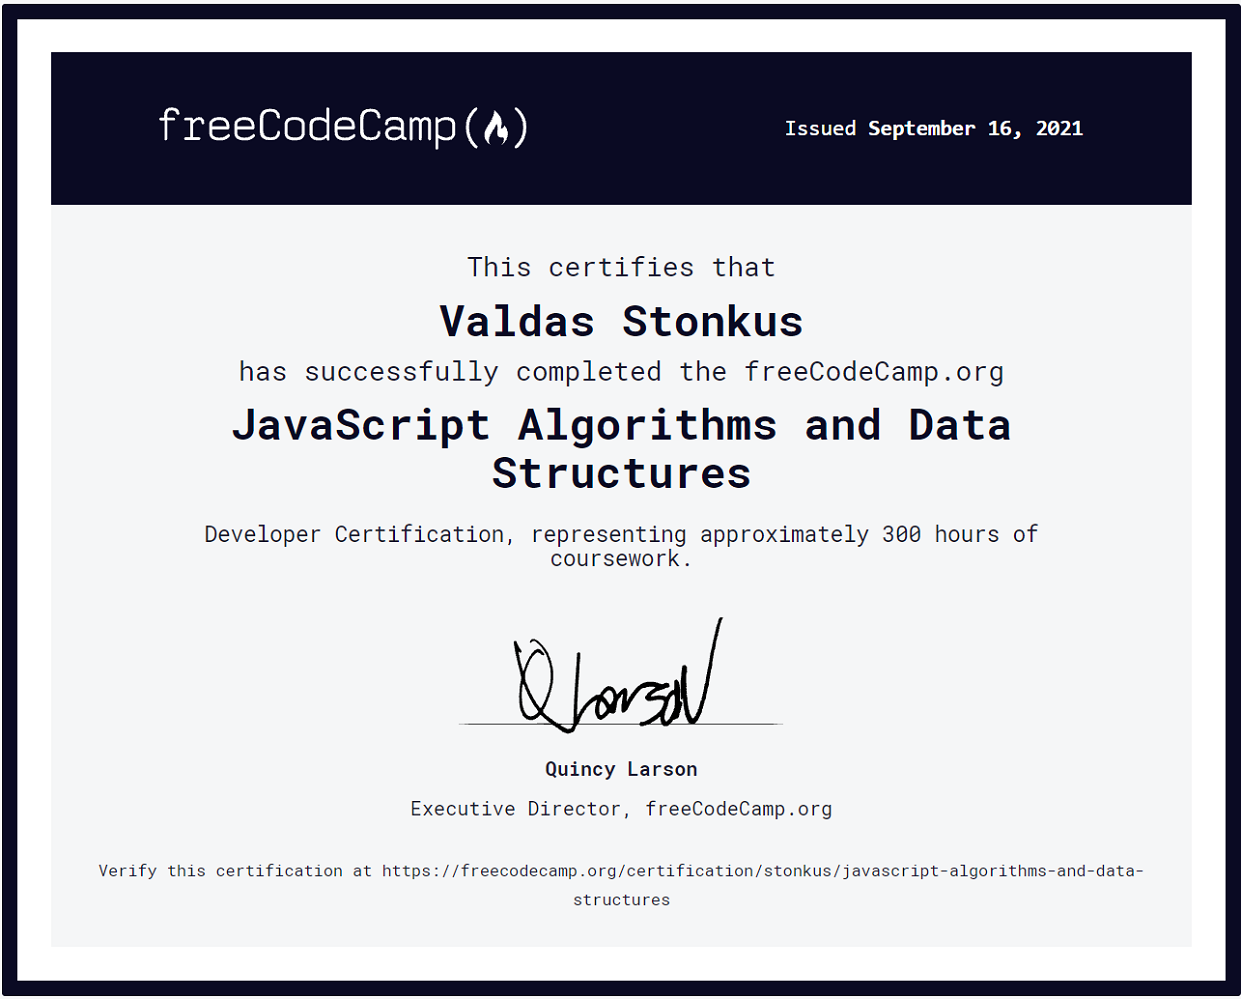
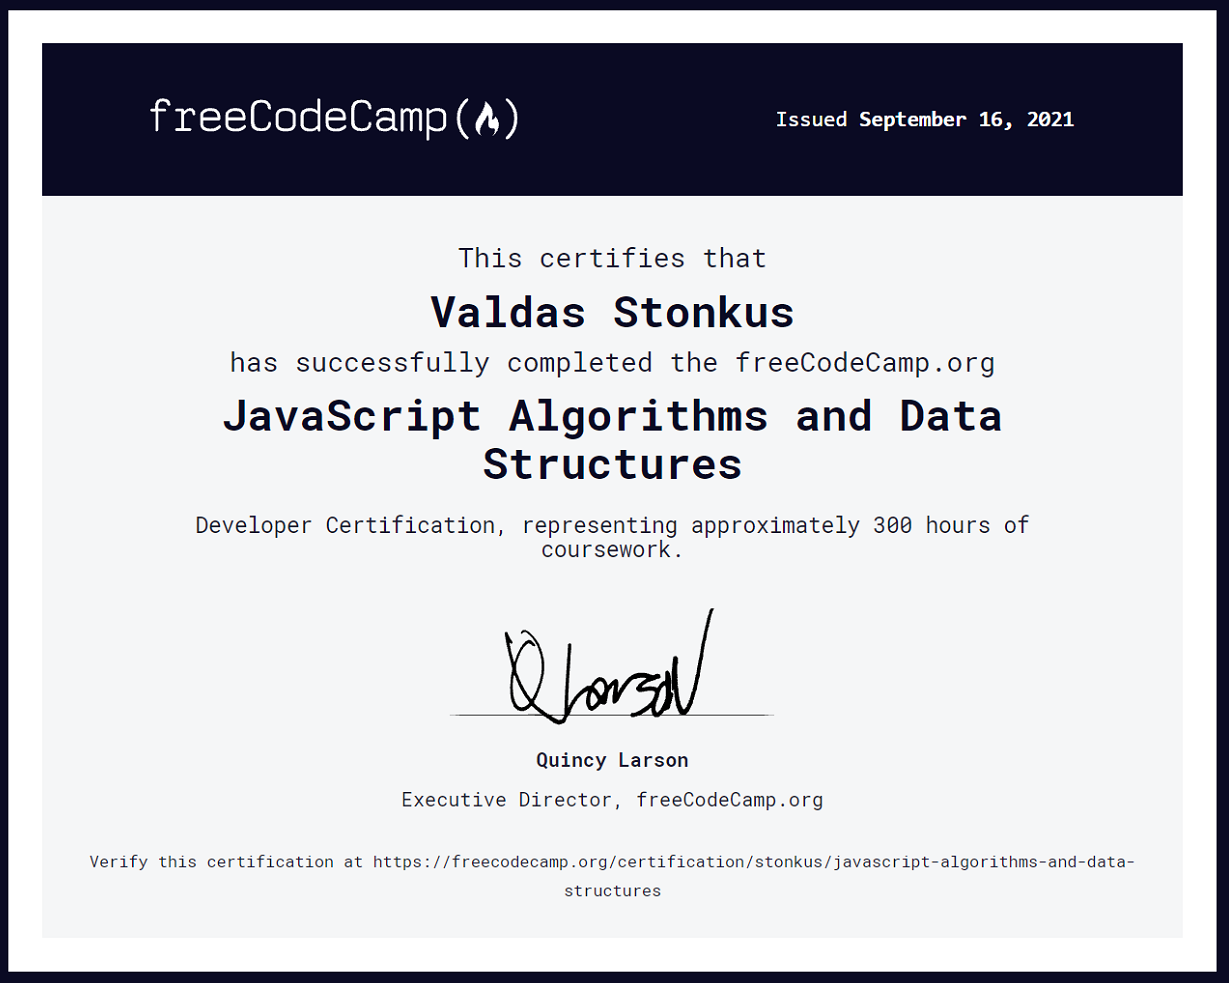
corrected certs

diff --git a/index.html b/index.html
@@ -102,14 +102,16 @@
           <div class="row">
             <div class="col-6">
 
-              <img src="./src/sert/javascript_and_data.png" class="img-fluid rounded justify-content-center"
-                style="cursor: pointer;" data-toggle="modal" data-target=".bd-modal-javascript"
+              <img src="./src/sert/javascript_and_data.png"
+                class="img-fluid rounded justify-content-center img-thumbnail" style="cursor: pointer;"
+                data-toggle="modal" data-target=".bd-modal-javascript"
                 alt="Certificate of compleated JavaScript algoritms and date structures.">
             </div>
 
             <div class="col-6">
-              <img src="./src/sert/responsive_web_design.png" class="img-fluid rounded justify-content-center"
-                style="cursor: pointer;" data-toggle="modal" data-target=".bd-modal-responsive"
+              <img src="./src/sert/responsive_web_design.png"
+                class="img-fluid rounded justify-content-center img-thumbnail" style="cursor: pointer;"
+                data-toggle="modal" data-target=".bd-modal-responsive"
                 alt="Certificate of compleated Responsive web desingn.">
             </div>
           </div>
@@ -121,7 +123,7 @@
           aria-hidden="true">
           <div class="modal-dialog modal-xl">
             <div class="modal-content">
-              <img class="img-fluid" src="./src/sert/javascript_and_data.png" alt="">
+              <img class="img-fluid img-thumbnail" src="./src/sert/javascript_and_data.png" alt="">
             </div>
           </div>
         </div>
@@ -130,7 +132,7 @@
           aria-hidden="true">
           <div class="modal-dialog modal-xl">
             <div class="modal-content">
-              <img class="img-fluid" src="./src/sert/responsive_web_design.png" alt="">
+              <img class="img-fluid img-thumbnail" src="./src/sert/responsive_web_design.png" alt="">
             </div>
           </div>
         </div>
